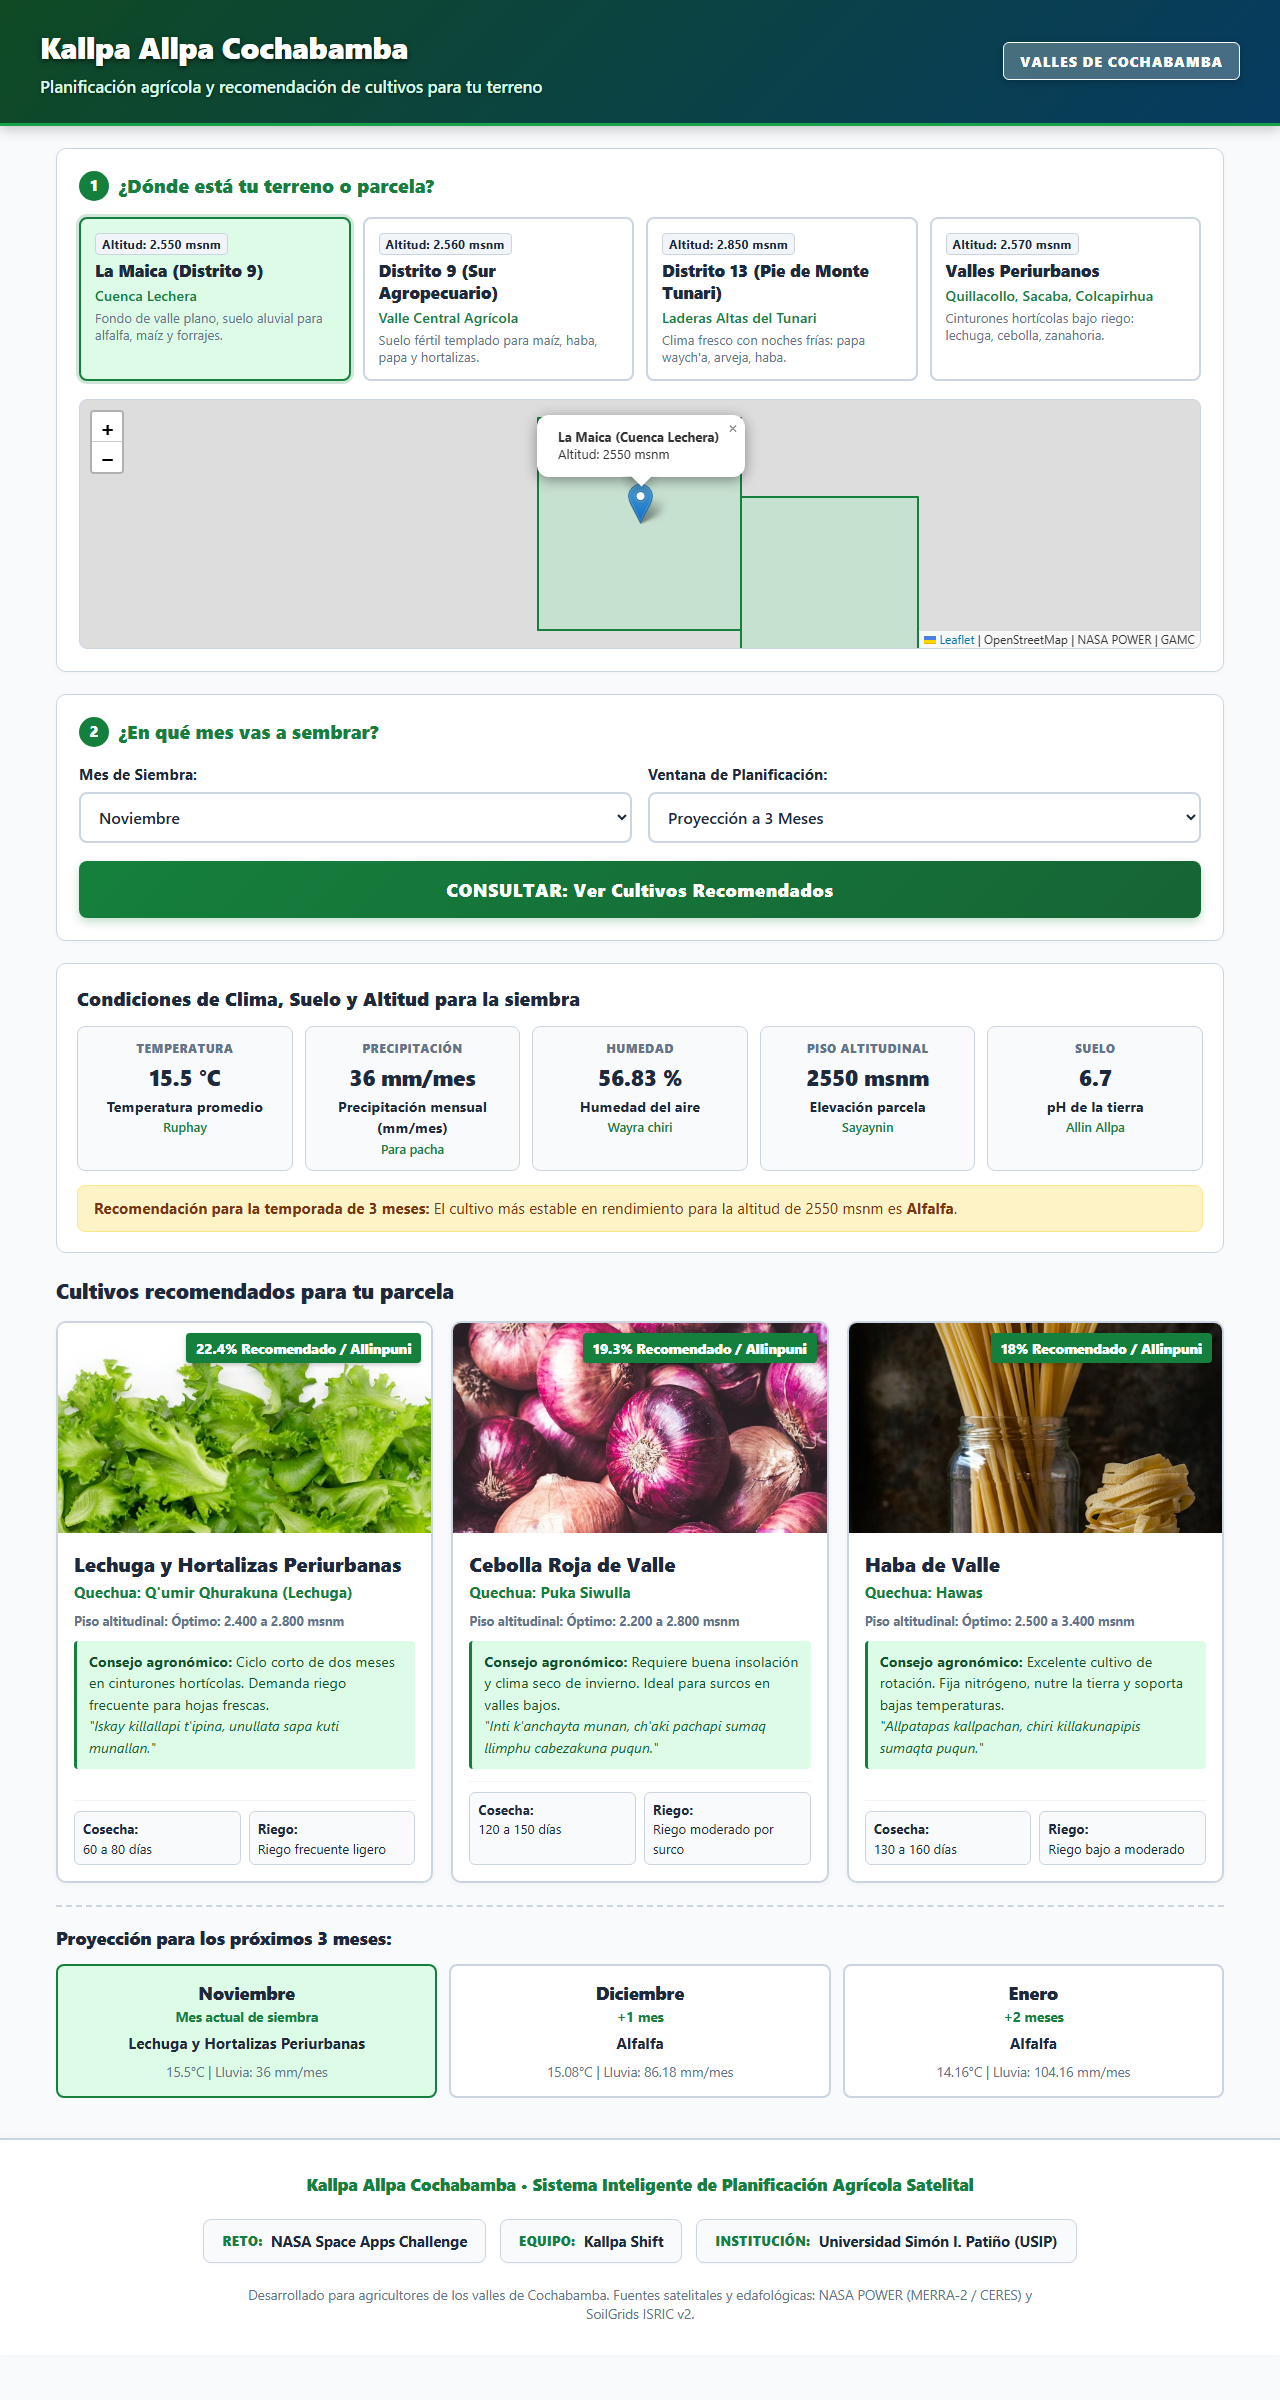
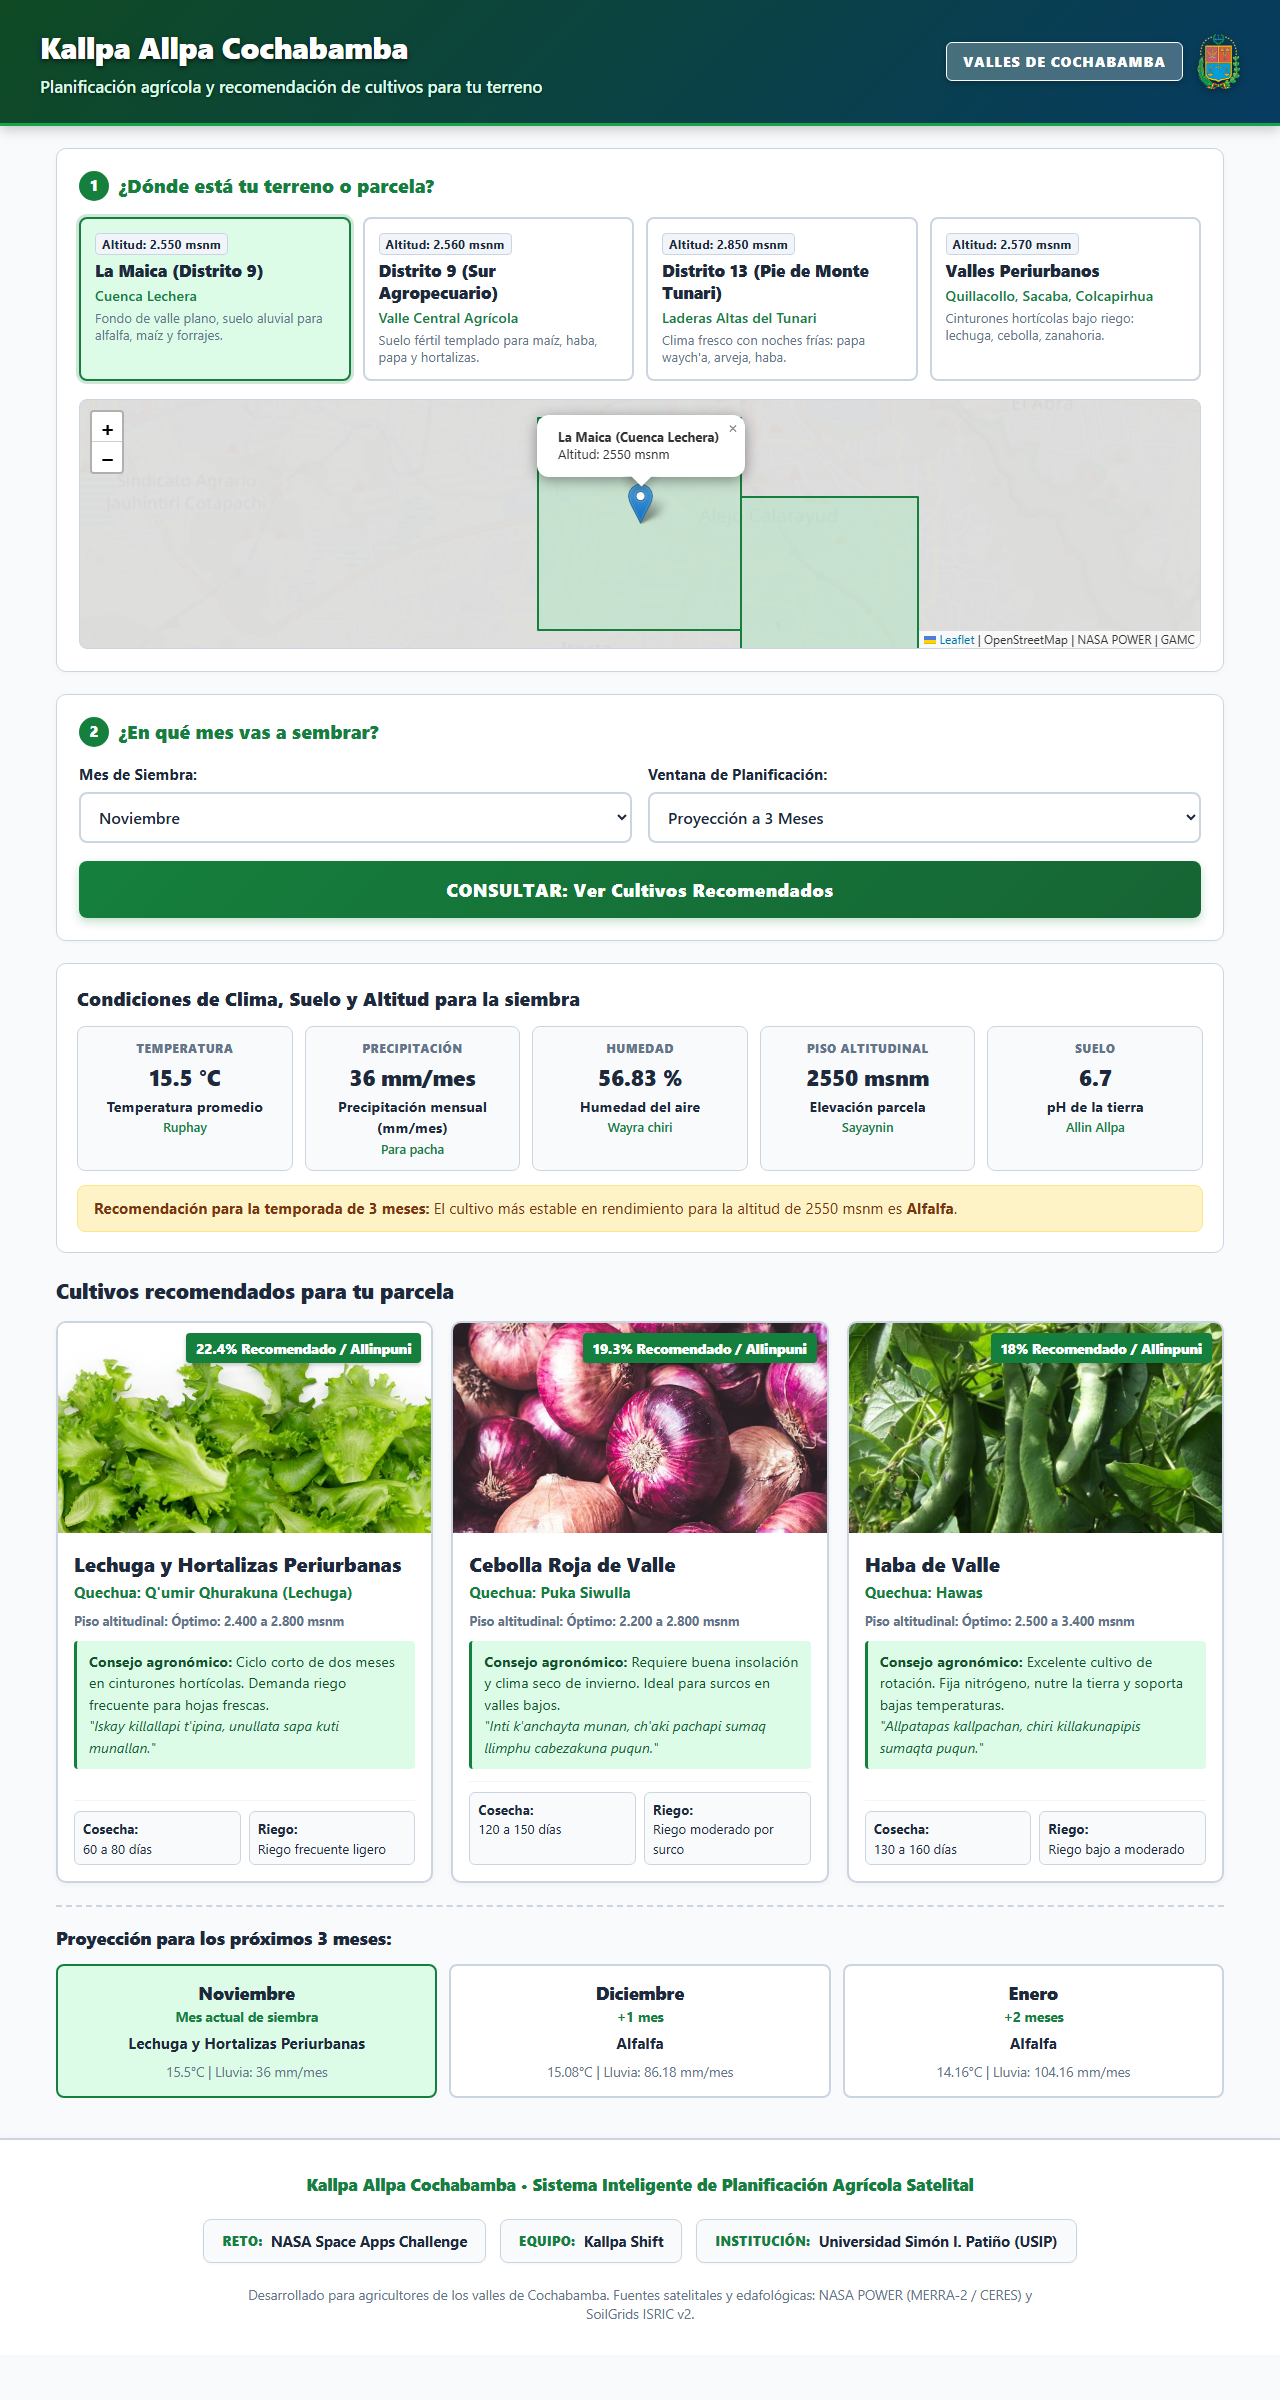
feat: integracion de escudo oficial y fotografias actualizadas de cultivos

Changed region(s): [[0.6562, 0.5312, 0.9688, 0.6562], [0.875, 0.0, 0.9688, 0.0625], [0.7188, 0.0, 0.8125, 0.0312]]

diff --git a/app/static/index.html b/app/static/index.html
@@ -87,6 +87,25 @@
             box-shadow: 0 2px 6px rgba(0, 0, 0, 0.25);
         }
 
+        .grupo-derecha {
+            display: flex;
+            align-items: center;
+            gap: 14px;
+        }
+
+        .contenedor-imagen {
+            display: inline-flex;
+            align-items: center;
+            height: 3.4em;
+        }
+
+        .contenedor-imagen img {
+            height: 100%;
+            width: auto;
+            object-fit: contain;
+            filter: drop-shadow(0 2px 4px rgba(0, 0, 0, 0.4));
+        }
+
         .contenedor {
             max-width: 1200px;
             margin: 22px auto;
@@ -578,8 +597,11 @@
             <div class="titulo-app">Kallpa Allpa Cochabamba</div>
             <p class="subtitulo-app">Planificación agrícola y recomendación de cultivos para tu terreno</p>
         </div>
-        <div>
+        <div class="grupo-derecha">
             <span class="etiqueta-valle">Valles de Cochabamba</span>
+            <div class="contenedor-imagen">
+                <img src="/static/img/escudo.png" alt="Escudo de Cochabamba">
+            </div>
         </div>
     </div>
 </header>
@@ -802,7 +824,7 @@
         },
         "Haba de Valle": {
             quechua: "Hawas",
-            imagen: "/static/img/haba.jpg",
+            imagen: "/static/img/haba1.jpg",
             consejo_es: "Excelente cultivo de rotación. Fija nitrógeno, nutre la tierra y soporta bajas temperaturas.",
             consejo_qu: "Allpatapas kallpachan, chiri killakunapipis sumaqta puqun.",
             piso_alt: "Óptimo: 2.500 a 3.400 msnm",
@@ -811,7 +833,7 @@
         },
         "Alfalfa": {
             quechua: "Alpalpa (Uywa qhura)",
-            imagen: "/static/img/alfalfa.jpg",
+            imagen: "/static/img/alfalfa1.jpg",
             consejo_es: "Principal forraje de corte en La Maica para ganado lechero. Cortes continuos cada 35-45 días.",
             consejo_qu: "Wakahinataq uywakunapaq forraje, sapa 35-45 punchay k'utuna.",
             piso_alt: "Óptimo: 2.200 a 2.800 msnm",
@@ -856,7 +878,7 @@
         },
         "Avena Forrajera": {
             quechua: "Awinaka (Uywa mikhuna)",
-            imagen: "/static/img/avena.jpg",
+            imagen: "/static/img/avena1.jpg",
             consejo_es: "Alta rusticidad frente a heladas y vientos fríos. Ideal para laderas y alturas del Tunari.",
             consejo_qu: "Chiri qasapi mana wanunchu, orqokunapipis sumaq forraje lloqsin.",
             piso_alt: "Óptimo: 2.600 a 3.800 msnm (Resistente al frío)",
@@ -865,7 +887,7 @@
         },
         "Arveja": {
             quechua: "Alwirha",
-            imagen: "/static/img/arveja.jpg",
+            imagen: "/static/img/arveja1.jpg",
             consejo_es: "Leguminosa de ciclo rápido. Buena adaptación a laderas templadas y rotación invernal.",
             consejo_qu: "Pisi pachallapi puqun, allpatapis samachin allinta.",
             piso_alt: "Óptimo: 2.400 a 3.200 msnm",
